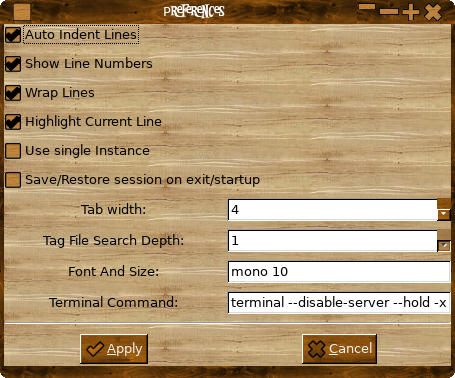
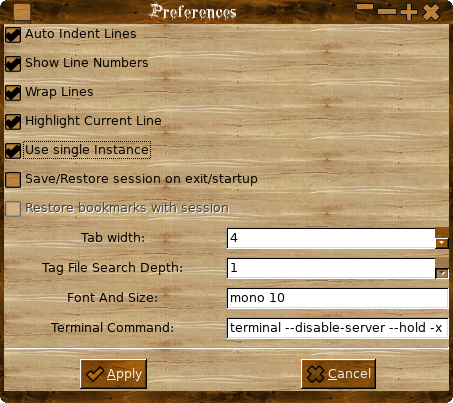
done save/restore session with/without bookmarks
git-svn-id: file:///media/LinuxData/Development/SVN/KKEdit@272 923dfa19-3233-4c9e-86b8-84ae44b222e5

diff --git a/KKEdit/resources/help/help.html b/KKEdit/resources/help/help.html
@@ -191,6 +191,7 @@
 
 
 
+
                   - Currently selected text.<br>
                   KKEDIT_DATADIR - Directory of global folder ( eg
                   /usr/share/KKEdit ). <br>
@@ -227,8 +228,8 @@
       <hr size="2" width="100%"><big><small><small><small><big><br>
               </big></small></small></small></big> <a name="prefsanc"></a><u><b>Preferences</b></u><big><small><small><small><big><big><big><u><b><br>
                         <br>
-                        <img alt="prefs" src="prefs.png" height="378"
-                          width="455"><small><small><br>
+                        <img alt="prefs" src="prefs.png" height="403"
+                          width="453"><small><small><br>
                             <br>
                           </small></small> </b></u><small><small><font
                           size="-1">The Prefs file is created
@@ -254,6 +255,7 @@
         <a href="#otherfeatsanc">Other</a><br>
       </b><small><big><big><b><small><br>
               </small></b><small><small><a name="copyfilenameanc"></a>Right
+
 
 
 
@@ -329,10 +331,12 @@
 
 
 
+
       Features include:<small><big><big><small><small><font size="-1"><font
                     size="-1"><font size="-1"><br>
                       <font size="-1">Can be set to automatically save
-                        and restore a session when starting and exiting.</font></font></font></font></small></small></big></big></small><font
+                        and restore a session ( with or without
+                        bookmarks ) when starting and exiting.</font></font></font></font></small></small></big></big></small><font
         size="-1"><br>
         You can manually save and restore sessions <font size="-1">via
           the '<font size="-1">F</font>ile' menu, you can also restore a
@@ -352,13 +356,14 @@
         <font size="-1">You can search the installed Gtk<font size="-1">-docs
 
 
+
             for an api via the toolbar entry box:<br>
             <img alt="apisearch" src="findapifromtoolbar.png"
               height="264" width="684"><br>
           </font></font></font><small> </small>
       <hr size="2" width="100%"><u><b><a name="getanc"></a>Get it here!</b></u><br>
       <a
-href="http://keithhedger.hostingsiteforfree.com/zips/kkedit/KKEdit-0.0.14.tar.gz">KKEdit</a><br>
+href="http://keithhedger.hostingsiteforfree.com/zips/kkedit/KKEdit-0.0.15.tar.gz">KKEdit</a><br>
       <br>
       <u><b>Dependencies</b></u><br>
       <small><br>
